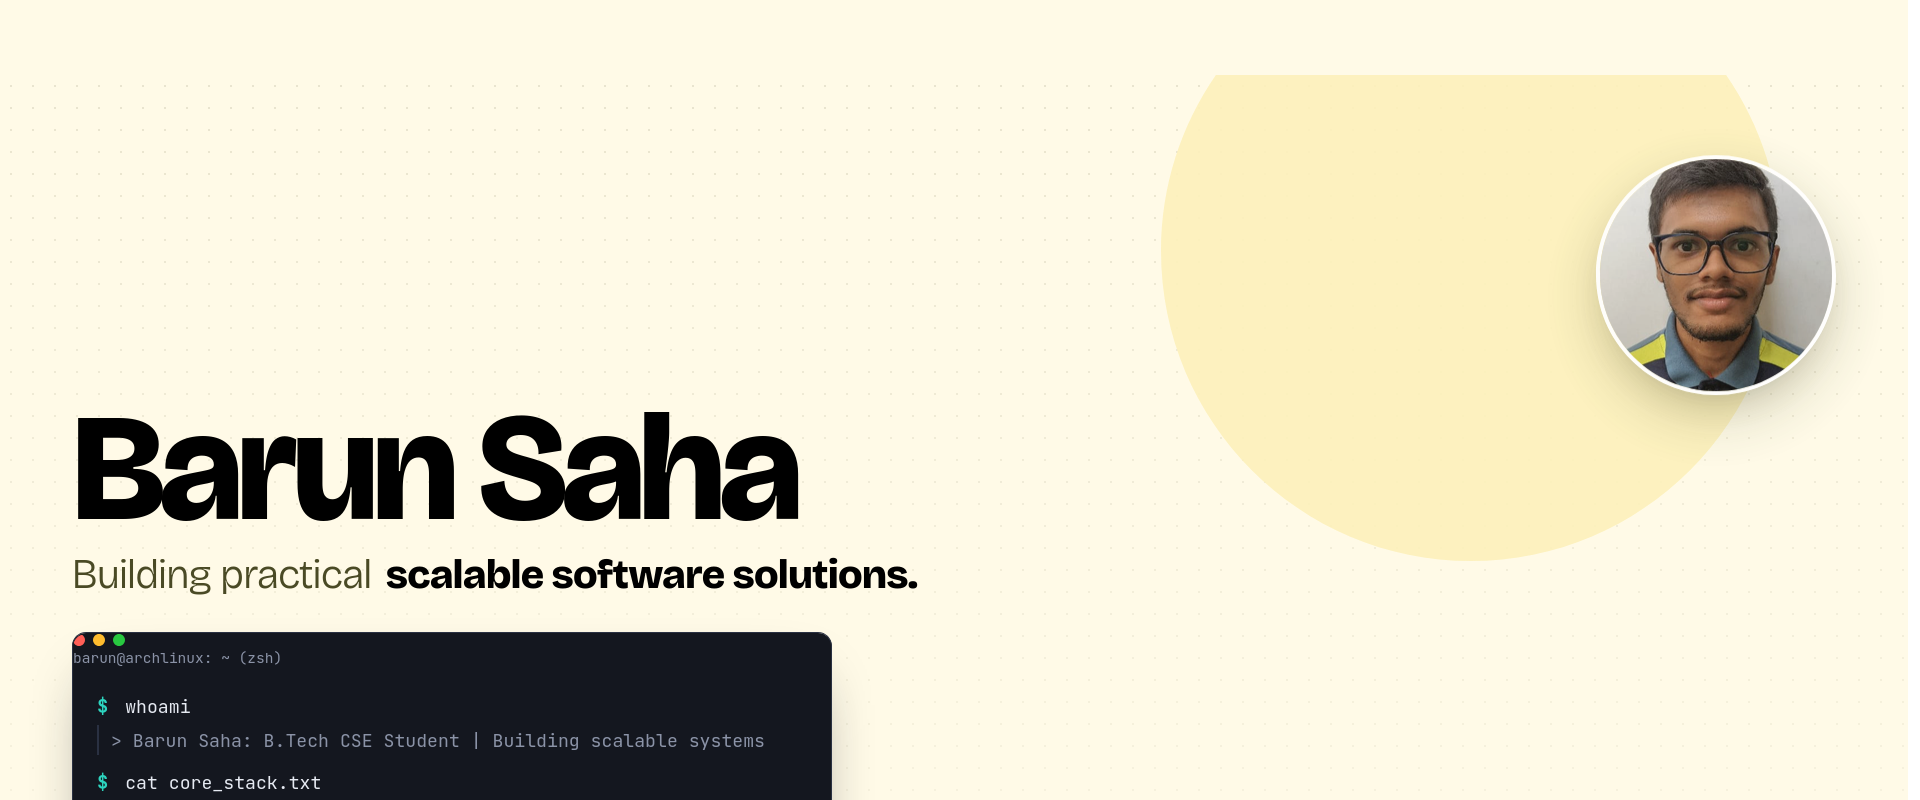
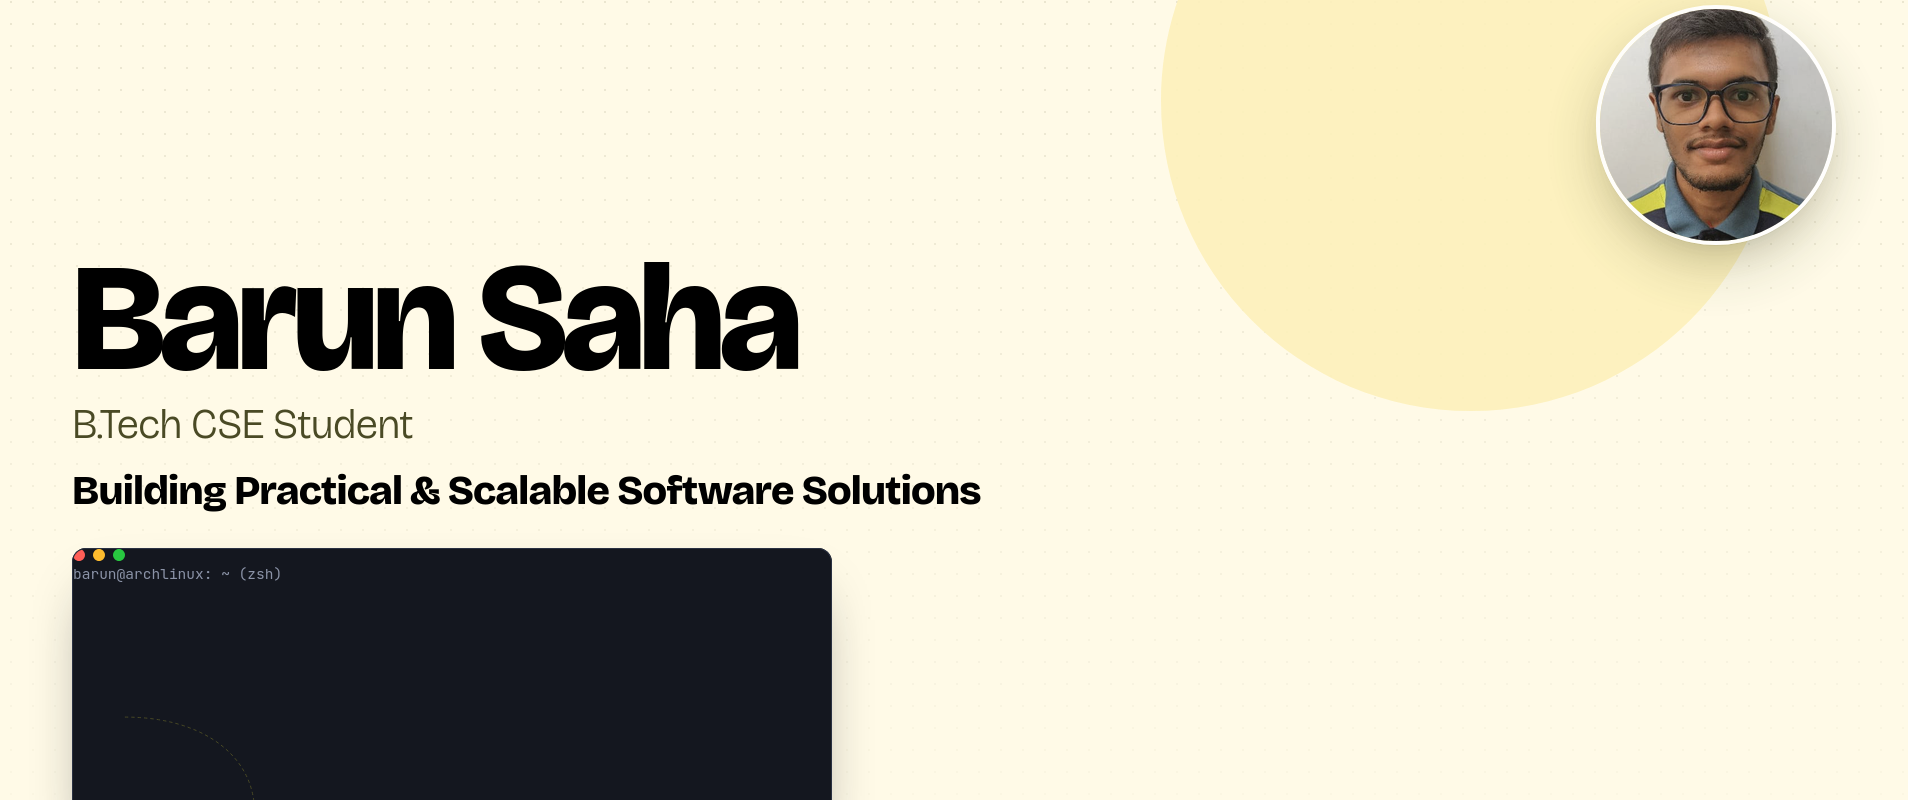
feat(design): crop and replace portrait photo and align global layout grid

diff --git a/assets/css/style.css b/assets/css/style.css
@@ -274,21 +274,18 @@ main section { scroll-margin-top: calc(var(--header-h) + 16px); }
 }
 
 /* --------------------------------------------------------------------------
-   Section Header Pattern (title left, one plain sentence right, left-aligned text, never centred)
+   Section Header Pattern (title left, description immediately below, left-aligned)
    -------------------------------------------------------------------------- */
 .section-head {
-  display: grid;
-  grid-template-columns: repeat(12, minmax(0, 1fr));
-  column-gap: var(--col-gap);
-  row-gap: var(--s-3);
-  align-items: end;
+  display: flex;
+  flex-direction: column;
+  gap: var(--s-2);
   padding-bottom: var(--s-4);
   border-bottom: 1px solid var(--line);
   margin-bottom: var(--header-gap);
 }
 
 .section-head h2 {
-  grid-column: 1 / span 6;
   font-size: clamp(2rem, 1.2rem + 2.6vw, 3.25rem);
   font-weight: 700;
   line-height: 1.05;
@@ -299,20 +296,11 @@ main section { scroll-margin-top: calc(var(--header-h) + 16px); }
 
 .section-head p,
 .section-head .section-desc {
-  grid-column: 7 / -1;
   font-size: 1rem;
   color: var(--ink-soft);
   margin: 0;
   text-align: left;
   max-width: var(--measure);
-}
-
-@media (max-width: 899px) {
-  .section-head h2,
-  .section-head p,
-  .section-head .section-desc {
-    grid-column: 1 / -1;
-  }
 }
 
 /* --------------------------------------------------------------------------
@@ -626,12 +614,17 @@ html.menu-open {
 }
 
 .hero__stage, .hero-portrait-wrap {
-  grid-column: 7 / -1;
+  grid-column: 8 / -1;
   grid-row: 1;
   position: relative;
-  justify-self: end;
+  justify-self: center;
   align-self: center;
-  margin-left: -56px;
+  display: flex;
+  justify-content: center;
+  align-items: center;
+  width: 100%;
+  max-width: 440px;
+  margin: 0;
   z-index: 2;
   pointer-events: none;
 }
@@ -669,32 +662,35 @@ html.menu-open {
   color: var(--ink-strong);
 }
 
-/* Sun Circle */
+/* Sun Circle (concentric with portrait, strictly contained) */
 .hero__sun, .hero-sun-circle {
   position: absolute;
-  inset: 50% 0 auto auto;
-  translate: 0 -50%;
-  inline-size: clamp(280px, 38vw, 760px);
+  top: 50%;
+  left: 50%;
+  transform: translate(-50%, -50%) scale(0.9);
+  width: clamp(280px, 32vw, 440px);
   aspect-ratio: 1;
   border-radius: 50%;
   background: var(--sun);
   z-index: 1;
-  transform: scale(0.85);
-  opacity: 0.9;
+  opacity: 0.92;
   transition: transform 500ms cubic-bezier(0.2, 0.8, 0.2, 1);
 }
 
 .hero-online .hero__sun,
 .hero-online .hero-sun-circle {
-  transform: scale(1);
+  transform: translate(-50%, -50%) scale(1);
 }
 
 /* Portrait Stage */
 .hero-portrait-stage {
   position: relative;
   z-index: 2;
-  transform: translateY(24px);
-  opacity: 0.92;
+  display: flex;
+  justify-content: center;
+  align-items: center;
+  transform: translateY(12px);
+  opacity: 0.95;
   transition: transform 500ms cubic-bezier(0.2, 0.8, 0.2, 1), opacity 500ms ease;
 }
 
@@ -706,19 +702,31 @@ html.menu-open {
 .hero__portrait, .hero-portrait {
   position: relative;
   display: block;
-  inline-size: clamp(220px, 30vw, 620px);
-  height: auto;
-  filter: drop-shadow(0 20px 30px rgba(74, 74, 37, 0.22));
+  width: clamp(240px, 22vw, 320px);
+  aspect-ratio: 4 / 5;
+  object-fit: cover;
+  object-position: center top;
+  border-radius: var(--r-card);
+  border: 3px solid var(--surface);
+  box-shadow: var(--shadow-md), 0 20px 40px -15px rgba(74, 74, 37, 0.28);
+  background: var(--surface);
 }
 
 .hero-portrait-stage.is-fallback .hero__portrait,
 .hero-portrait-stage.is-fallback .hero-portrait {
-  width: clamp(200px, 24vw, 240px);
-  height: clamp(200px, 24vw, 240px);
-  border-radius: 50%;
+  width: clamp(240px, 22vw, 320px);
+  height: auto;
+  aspect-ratio: 4 / 5;
+  border-radius: var(--r-card);
   object-fit: cover;
-  border: 4px solid var(--surface);
-  box-shadow: var(--shadow-md);
+  border: 3px solid var(--surface);
+  box-shadow: var(--shadow-md), 0 20px 40px -15px rgba(74, 74, 37, 0.28);
+}
+
+[data-theme="dark"] .hero__portrait,
+[data-theme="dark"] .hero-portrait {
+  border-color: var(--term-line);
+  box-shadow: 0 24px 48px -12px rgba(0, 0, 0, 0.7);
 }
 
 /* Terminal Window Component */
@@ -735,7 +743,6 @@ html.menu-open {
 .term pre, .term p, .terminal-body pre, .terminal-body p {
   white-space: pre-wrap;
   overflow-wrap: anywhere;
-}
 }
 
 .terminal-header {
@@ -933,14 +940,14 @@ html.menu-open {
     grid-column: 1 / -1;
     grid-row: auto;
     order: 2;
-    margin-left: 0;
-    justify-self: end;
+    margin: var(--s-6) auto 0;
+    justify-self: center;
   }
   .hero__sun, .hero-sun-circle {
-    inline-size: min(78vw, 360px);
+    width: clamp(240px, 55vw, 320px);
   }
   .hero__portrait, .hero-portrait {
-    inline-size: min(56vw, 260px);
+    width: clamp(200px, 45vw, 260px);
   }
 }
 
@@ -1242,10 +1249,16 @@ html.menu-open {
   border-top: 1px solid var(--line);
 }
 
-@media (min-width: 768px) {
+@media (min-width: 900px) {
   .skills-row {
-    grid-template-columns: 22% 1fr;
+    grid-template-columns: repeat(12, minmax(0, 1fr));
     column-gap: var(--col-gap);
+  }
+  .skills-row-name {
+    grid-column: 1 / span 4;
+  }
+  .skills-row-tags {
+    grid-column: 5 / -1;
   }
 }
 
@@ -1293,11 +1306,10 @@ html.menu-open {
    Projects Section (Dark Stage Band + Featured Slab + 2-Column Cards)
    -------------------------------------------------------------------------- */
 .projects-stage {
-  margin-inline: clamp(8px, 2vw, 24px);
-  padding-block: clamp(48px, 6vw, 84px);
+  margin-inline: 0;
+  padding-block: clamp(56px, 7vw, 96px);
   background: var(--term-bg);
-  border: 1px solid var(--term-line);
-  border-radius: var(--r-slab);
+  border-block: 1px solid var(--term-line);
   color: var(--term-text);
 }
 
@@ -1307,7 +1319,7 @@ html.menu-open {
 }
 
 .projects-stage__inner {
-  padding-inline: var(--gutter);
+  padding-inline: var(--gutter-l) var(--gutter-r);
 }
 
 .projects-stage .section-head {
@@ -1448,6 +1460,19 @@ html.menu-open {
   }
   .projects-grid > :last-child:nth-child(odd) {
     grid-column: 1 / -1;
+  }
+}
+
+@media (min-width: 1000px) {
+  .projects-grid > :last-child:nth-child(odd).project-card {
+    display: grid;
+    grid-template-columns: 7fr 5fr;
+    gap: clamp(24px, 4vw, 44px);
+    align-items: center;
+    padding: clamp(20px, 3.5vw, 36px);
+  }
+  .projects-grid > :last-child:nth-child(odd) .project-cover-wrap {
+    margin-bottom: 0;
   }
 }
 
@@ -1659,8 +1684,8 @@ html.menu-open {
    -------------------------------------------------------------------------- */
 .profiles, .profiles-tiles-grid {
   display: grid;
-  grid-template-columns: repeat(auto-fit, minmax(min(100%, 260px), 1fr));
-  gap: var(--s-4);
+  grid-template-columns: repeat(auto-fit, minmax(min(100%, 280px), 380px));
+  gap: var(--col-gap);
 }
 
 .profile-tile {

diff --git a/assets/js/main.js b/assets/js/main.js
@@ -246,7 +246,7 @@ function renderHeroProfile(profile) {
       if (portraitStage) portraitStage.classList.remove('is-fallback');
     };
     cutoutImg.onerror = () => {
-      portraitImg.src = profile.photo || 'assets/img/B_sphoto-1789478569220-5939.jpg';
+      portraitImg.src = profile.photo || 'assets/img/barun-saha.jpg';
       if (portraitStage) portraitStage.classList.add('is-fallback');
     };
     cutoutImg.src = 'assets/portrait-cutout.webp';
@@ -296,19 +296,7 @@ function renderAbout(profile, education) {
   if (!profile) return;
 
   if (statementEl && profile.bio) {
-    let bioHtml = escapeHTML(profile.bio);
-    const keyPhrases = [
-      'reliable and scalable software solutions',
-      'programming, data structures, databases, and modern development technologies',
-      'software engineering and application development'
-    ];
-    keyPhrases.forEach(phrase => {
-      const escaped = escapeHTML(phrase);
-      if (bioHtml.includes(escaped)) {
-        bioHtml = bioHtml.replace(escaped, `<strong class="phrase-bold">${escaped}</strong>`);
-      }
-    });
-    statementEl.innerHTML = `<p class="statement-text">${bioHtml}</p>`;
+    statementEl.innerHTML = `<p class="statement-text">${escapeHTML(profile.bio)}</p>`;
   }
 
   if (factsEl) {

diff --git a/index.html b/index.html
@@ -186,11 +186,11 @@
         </div>
       </div>
 
-      <!-- Stage: Portrait & Sun Circle (Columns 7 to 12) -->
+      <!-- Stage: Portrait & Sun Circle (Columns 8 to 12) -->
       <div class="hero__stage hero-portrait-wrap">
         <div class="hero__sun hero-sun-circle" aria-hidden="true"></div>
-        <div class="hero-portrait-stage is-fallback">
-          <img id="hero-portrait-img" class="hero__portrait hero-portrait" src="assets/img/B_sphoto-1789478569220-5939.jpg" alt="Barun Saha" width="340" height="420" fetchpriority="high">
+        <div class="hero-portrait-stage">
+          <img id="hero-portrait-img" class="hero__portrait hero-portrait" src="assets/img/barun-saha.jpg" alt="Barun Saha" width="340" height="425" fetchpriority="high">
         </div>
       </div>
     </section>
